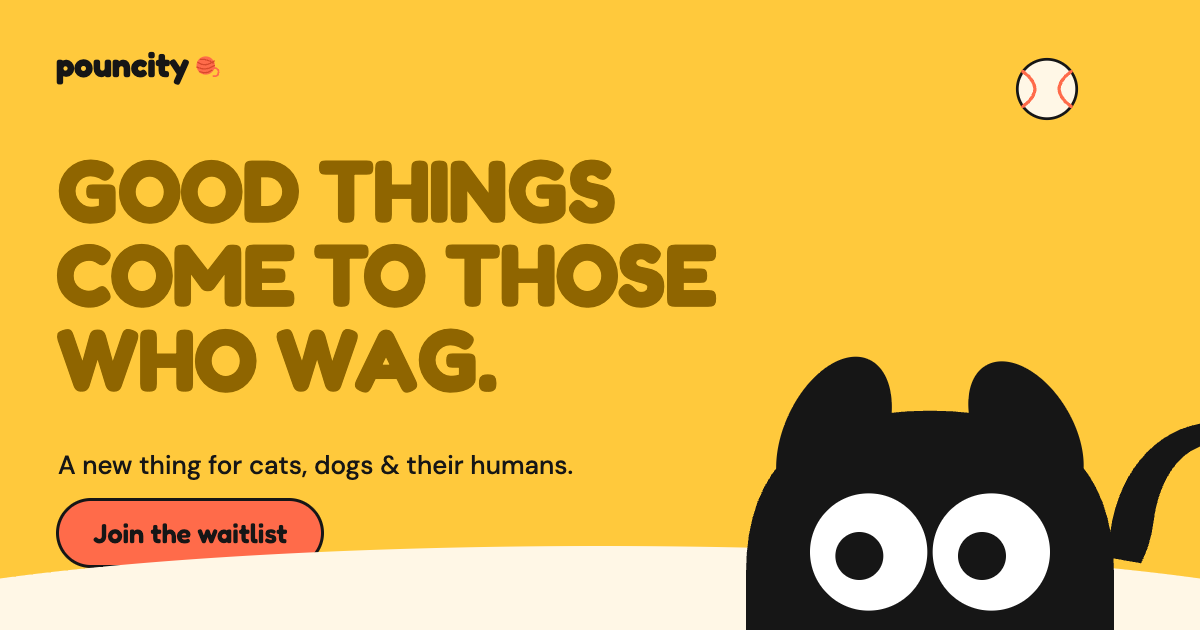
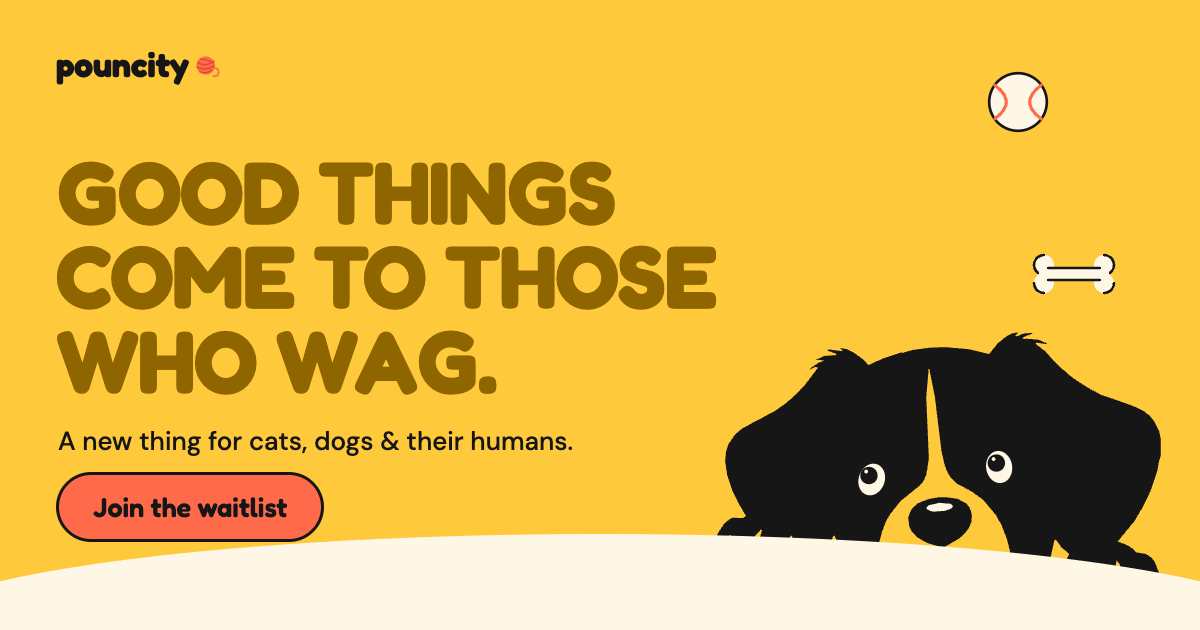
Glue hero dog to the ledge across viewports; refresh OG image to new design
- The peekdog's bottom was offset by 5vh (viewport HEIGHT) while the cream ledge
  is a function of --dome (viewport WIDTH), so on tall/mobile viewports and under
  browser zoom the dog drifted off the ledge. Re-anchor the dog's bottom to --dome
  and cancel the hero's own 4vh padding-bottom, so the offset is measured from the
  section boundary in pure width units. The dog now sits just below the ledge and
  the higher-z cream section clips the paw tips exactly at the curve — no gap at any
  height/zoom (verified 1440x900==1440x720 and 360/390/414 mobile widths).
- Re-render og.png (WhatsApp/LinkedIn thumbnail) to the current peeking-dog hero
  with the cornea/iris eyes; the old card still showed the removed front-dog.

Claude-Session: https://claude.ai/code/session_01U29qjsyvwoXmFaQAQmDqHK

diff --git a/join-waitlist/index.html b/join-waitlist/index.html
@@ -181,7 +181,13 @@
   .hero-cta:active{transform:translateY(0)}
   /* the peeking dog rests its paws on the cream ledge and noses up into the hero */
   .peekdog{
-    position:absolute;right:clamp(-16px,4vw,90px);bottom:calc(5vh - var(--dome));
+    position:absolute;right:clamp(-16px,4vw,90px);
+    /* Glue the paws to the cream ledge across viewport HEIGHT + browser zoom. The ledge is a
+       function of --dome (viewport width); the dog must be too. The hero's own padding-bottom
+       is calc(var(--dome) + 4vh), so measuring bottom from the section boundary means
+       cancelling that 4vh — leaving a pure --dome offset. The dog sits just BELOW the ledge and
+       the higher-z cream section clips the paw tips exactly at the curve, so there is never a gap. */
+    bottom:calc(-4vh - var(--dome) * 0.34);
     width:clamp(280px,40vw,460px);z-index:2;line-height:0;pointer-events:none;
   }
   /* tilt kept on its own layer so the GSAP yPercent reveal (on .peekdog) never fights it;
